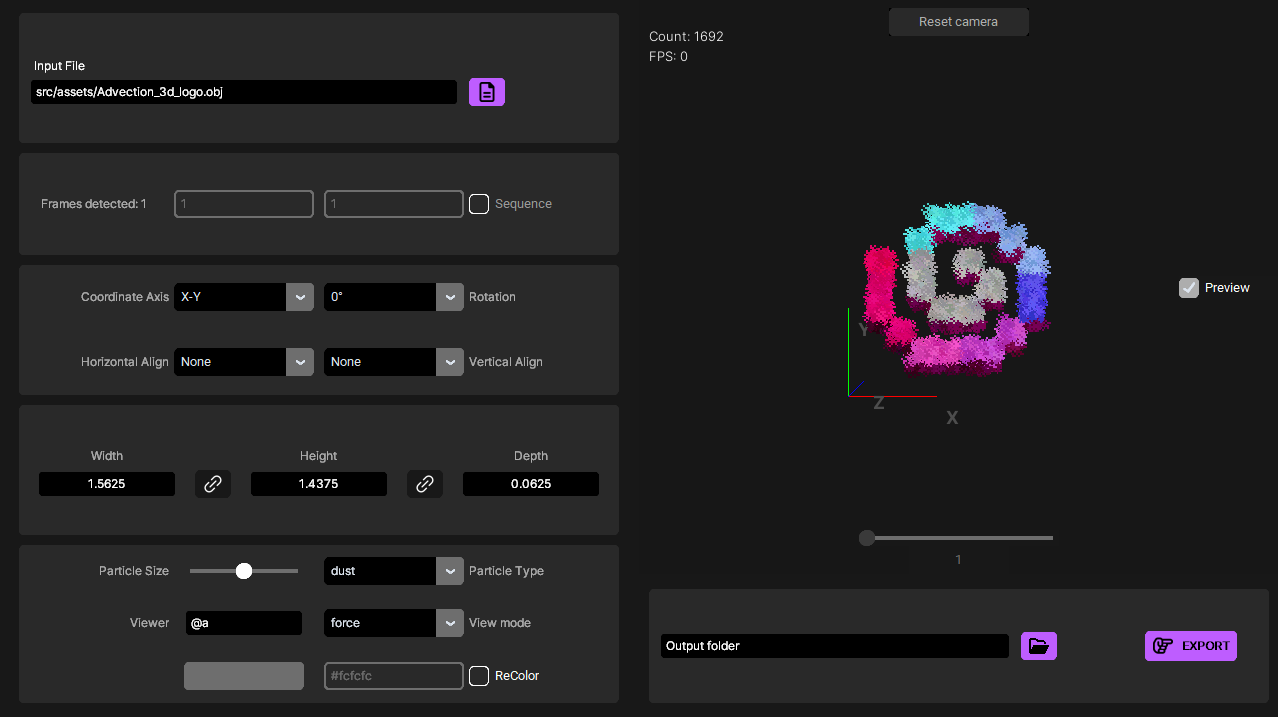
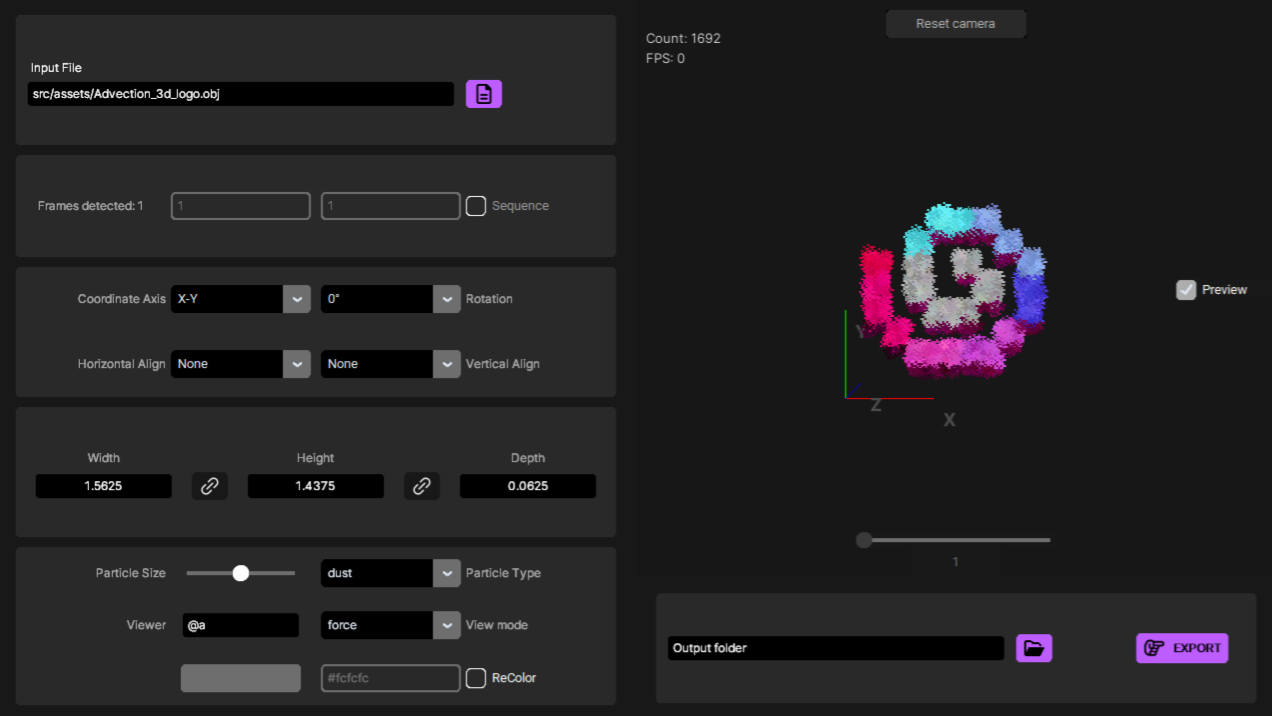
UI frame border fix, added model alpha threshold slider

diff --git a/src/frontend/interface.py b/src/frontend/interface.py
@@ -76,7 +76,7 @@ class UI():
         config_frame.grid(row = 0, column = 0,sticky="nsew",pady=10,padx=10)
         preview_frame.grid(row=0, column=1, sticky="nsew")
         export_frame_border.grid(row = 1, column = 1,sticky="nsew")
-        export_frame.grid(row = 0, column = 0,sticky="nsew",pady=15,padx=10)
+        export_frame.grid(row = 0, column = 0,sticky="nsew",pady=17,padx=20)
 
         highlight_progress = 0
 
@@ -594,6 +594,21 @@ class UI():
         model_depth_entry = customtkinter.CTkEntry(model_frame, **Styles.normal_entry_style,textvariable=ModelData.depth,font=Styles.InterFont,justify="center")
         model_wh_X_label = customtkinter.CTkLabel(model_frame, text="X",text_color=Styles.white,font=("Inter", 20))
         model_hd_X_label = customtkinter.CTkLabel(model_frame, text="X",text_color=Styles.white,font=("Inter", 20))
+        
+        def slider_update_alpha_threshold(value):
+            print("slider_update_alpha_threshold", round(value))
+            InputData.alpha_threshold = round(value)
+            UI.update_particles_cloud(InputData.path)
+
+        def update_alpha_threshold_tooltip(value):
+            UI.imgae_alpha_threshold_tooltip.configure(message=round(value)) # Update the tooltip
+
+        alpha_threshold_slider_debouncer = Debouncer(TkApp, 500, update_alpha_threshold_tooltip, slider_update_alpha_threshold)
+
+        model_alpha_threshold_label = customtkinter.CTkLabel(model_frame, text="Alpha threshold",text_color=Styles.light_gray,font=Styles.InterFont)
+        model_alpha_threshold_slider = customtkinter.CTkSlider(model_frame,from_=0, to=254,number_of_steps=256,**Styles.normal_slider_style,command=alpha_threshold_slider_debouncer.debouncer)
+        model_alpha_threshold_tooltip = CTkToolTip.CTkToolTip(model_alpha_threshold_slider, message= str(InputData.alpha_threshold), delay= 0, x_offset= -20, y_offset= 20, font= Styles.InterFont)
+
         # ModelData.resize_toggle = tk.IntVar(value=ModelData.resize_toggle)
         # model_resize_checkbox = customtkinter.CTkCheckBox(model_frame,variable=ModelData.resize_toggle,command=toggle_model_resize_section, text="Resize", onvalue=True, offvalue=False,**Styles.checkbox_style)
         def lock_model_size_ratio():
@@ -612,7 +627,7 @@ class UI():
 
         # GRID PARAMETERS
         model_frame.grid_columnconfigure([1,3,5], weight=1,uniform="a")
-        model_frame.grid_rowconfigure([0,1], weight=1,uniform="a")
+        model_frame.grid_rowconfigure([0,2], weight=1,uniform="a")
 
         # PLACEMENT PARAMETERS
 
@@ -628,6 +643,9 @@ class UI():
         # model_resize_checkbox.grid(column=6, row=1, padx=0, pady=0,sticky="nw")
         model_size_ratio_button_1.grid(column=2, row=1, padx=0, pady=0,sticky="nw")
         model_size_ratio_button_2.grid(column=4, row=1, padx=0, pady=0,sticky="nw")
+
+        model_alpha_threshold_label.grid(column=0, row=2, padx=15, pady=0,sticky="e")
+        model_alpha_threshold_slider.grid(column=1, columnspan=5, row=2, padx=15, pady=0,sticky="we")
         
         def verify_image_entries(type: str, dim: str):
             if type == "resolution":
@@ -944,18 +962,11 @@ class UI():
         # sv.image_resize_boolean = tk.IntVar(value=sv.image_resize_boolean)
         # image_resize_checkbox = customtkinter.CTkCheckBox(image_frame,variable=sv.image_resize_boolean,command=None, text="Resize", onvalue=True, offvalue=False,**Styles.checkbox_style)
 
-        def slider_update_alpha_threshold(value):
-            print("slider_update_alpha_threshold", round(value))
-            InputData.alpha_threshold = round(value)
-            UI.update_particles_cloud(InputData.path)
 
-        def update_alpha_threshold_tooltip(value):
-            UI.alpha_threshold_tooltip.configure(message=round(value)) # Update the tooltip
 
-        alpha_threshold_label = customtkinter.CTkLabel(image_frame, text="Alpha threshold",text_color=Styles.light_gray,font=Styles.InterFont)
-        alpha_threshold_slider_debouncer = Debouncer(TkApp, 500, update_alpha_threshold_tooltip, slider_update_alpha_threshold)
-        alpha_threshold_slider = customtkinter.CTkSlider(image_frame,from_=0, to=254,number_of_steps=256,**Styles.normal_slider_style,command=alpha_threshold_slider_debouncer.debouncer)
-        alpha_threshold_tooltip = CTkToolTip.CTkToolTip(alpha_threshold_slider, message= str(InputData.alpha_threshold), delay= 0, x_offset= -20, y_offset= 20, font= Styles.InterFont)
+        image_alpha_threshold_label = customtkinter.CTkLabel(image_frame, text="Alpha threshold",text_color=Styles.light_gray,font=Styles.InterFont)
+        image_alpha_threshold_slider = customtkinter.CTkSlider(image_frame,from_=0, to=254,number_of_steps=256,**Styles.normal_slider_style,command=alpha_threshold_slider_debouncer.debouncer)
+        imgae_alpha_threshold_tooltip = CTkToolTip.CTkToolTip(image_alpha_threshold_slider, message= str(InputData.alpha_threshold), delay= 0, x_offset= -20, y_offset= 20, font= Styles.InterFont)
 
 
         # GRID PARAMETERS
@@ -997,8 +1008,8 @@ class UI():
         image_resampling_menu.grid(column=1, columnspan=3, row=5, padx=0, pady=0,sticky="wen")
         # update_image_resolution_button.grid(column=4, row=4, padx=0, pady=0,sticky="nw")
         # image_resize_checkbox.grid(column=4, row=4, padx=0, pady=0,sticky="nw")
-        alpha_threshold_label.grid(column=0, row=6, padx=0, pady=0,sticky="e")
-        alpha_threshold_slider.grid(column=1, columnspan=3, row=6, padx=15, pady=0,sticky="we")
+        image_alpha_threshold_label.grid(column=0, row=6, padx=0, pady=0,sticky="e")
+        image_alpha_threshold_slider.grid(column=1, columnspan=3, row=6, padx=15, pady=0,sticky="we")
 
 
 
